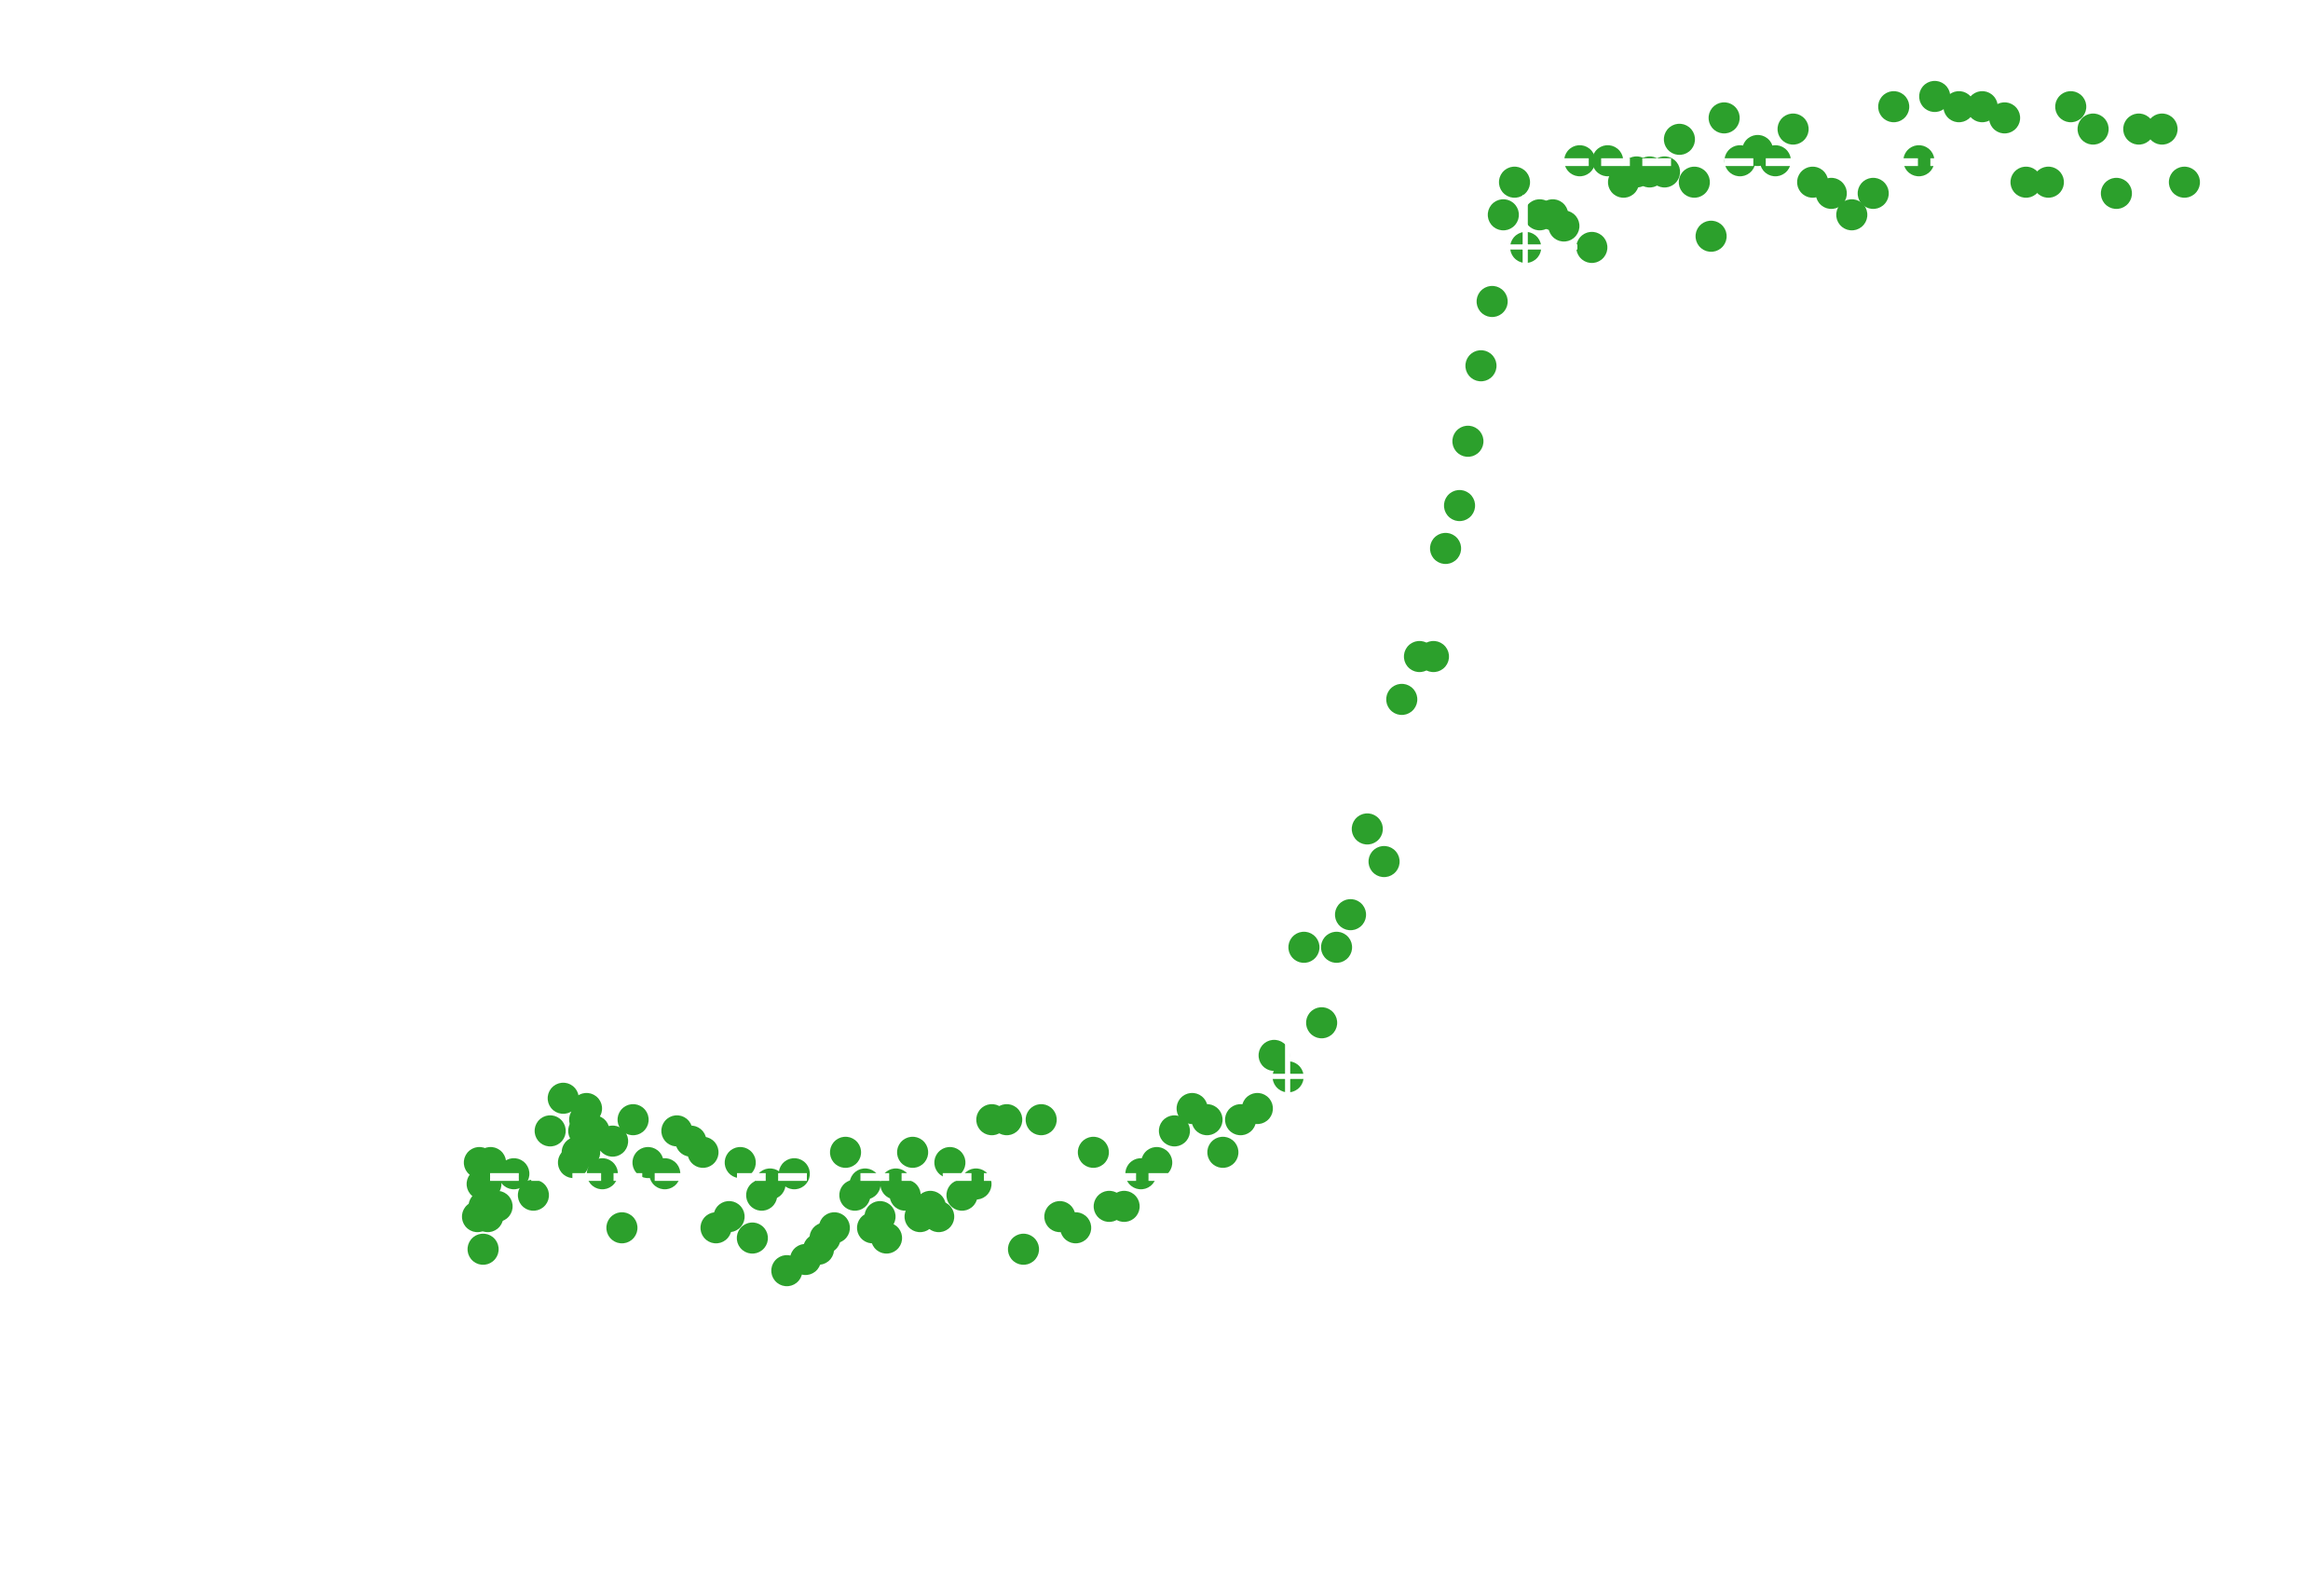
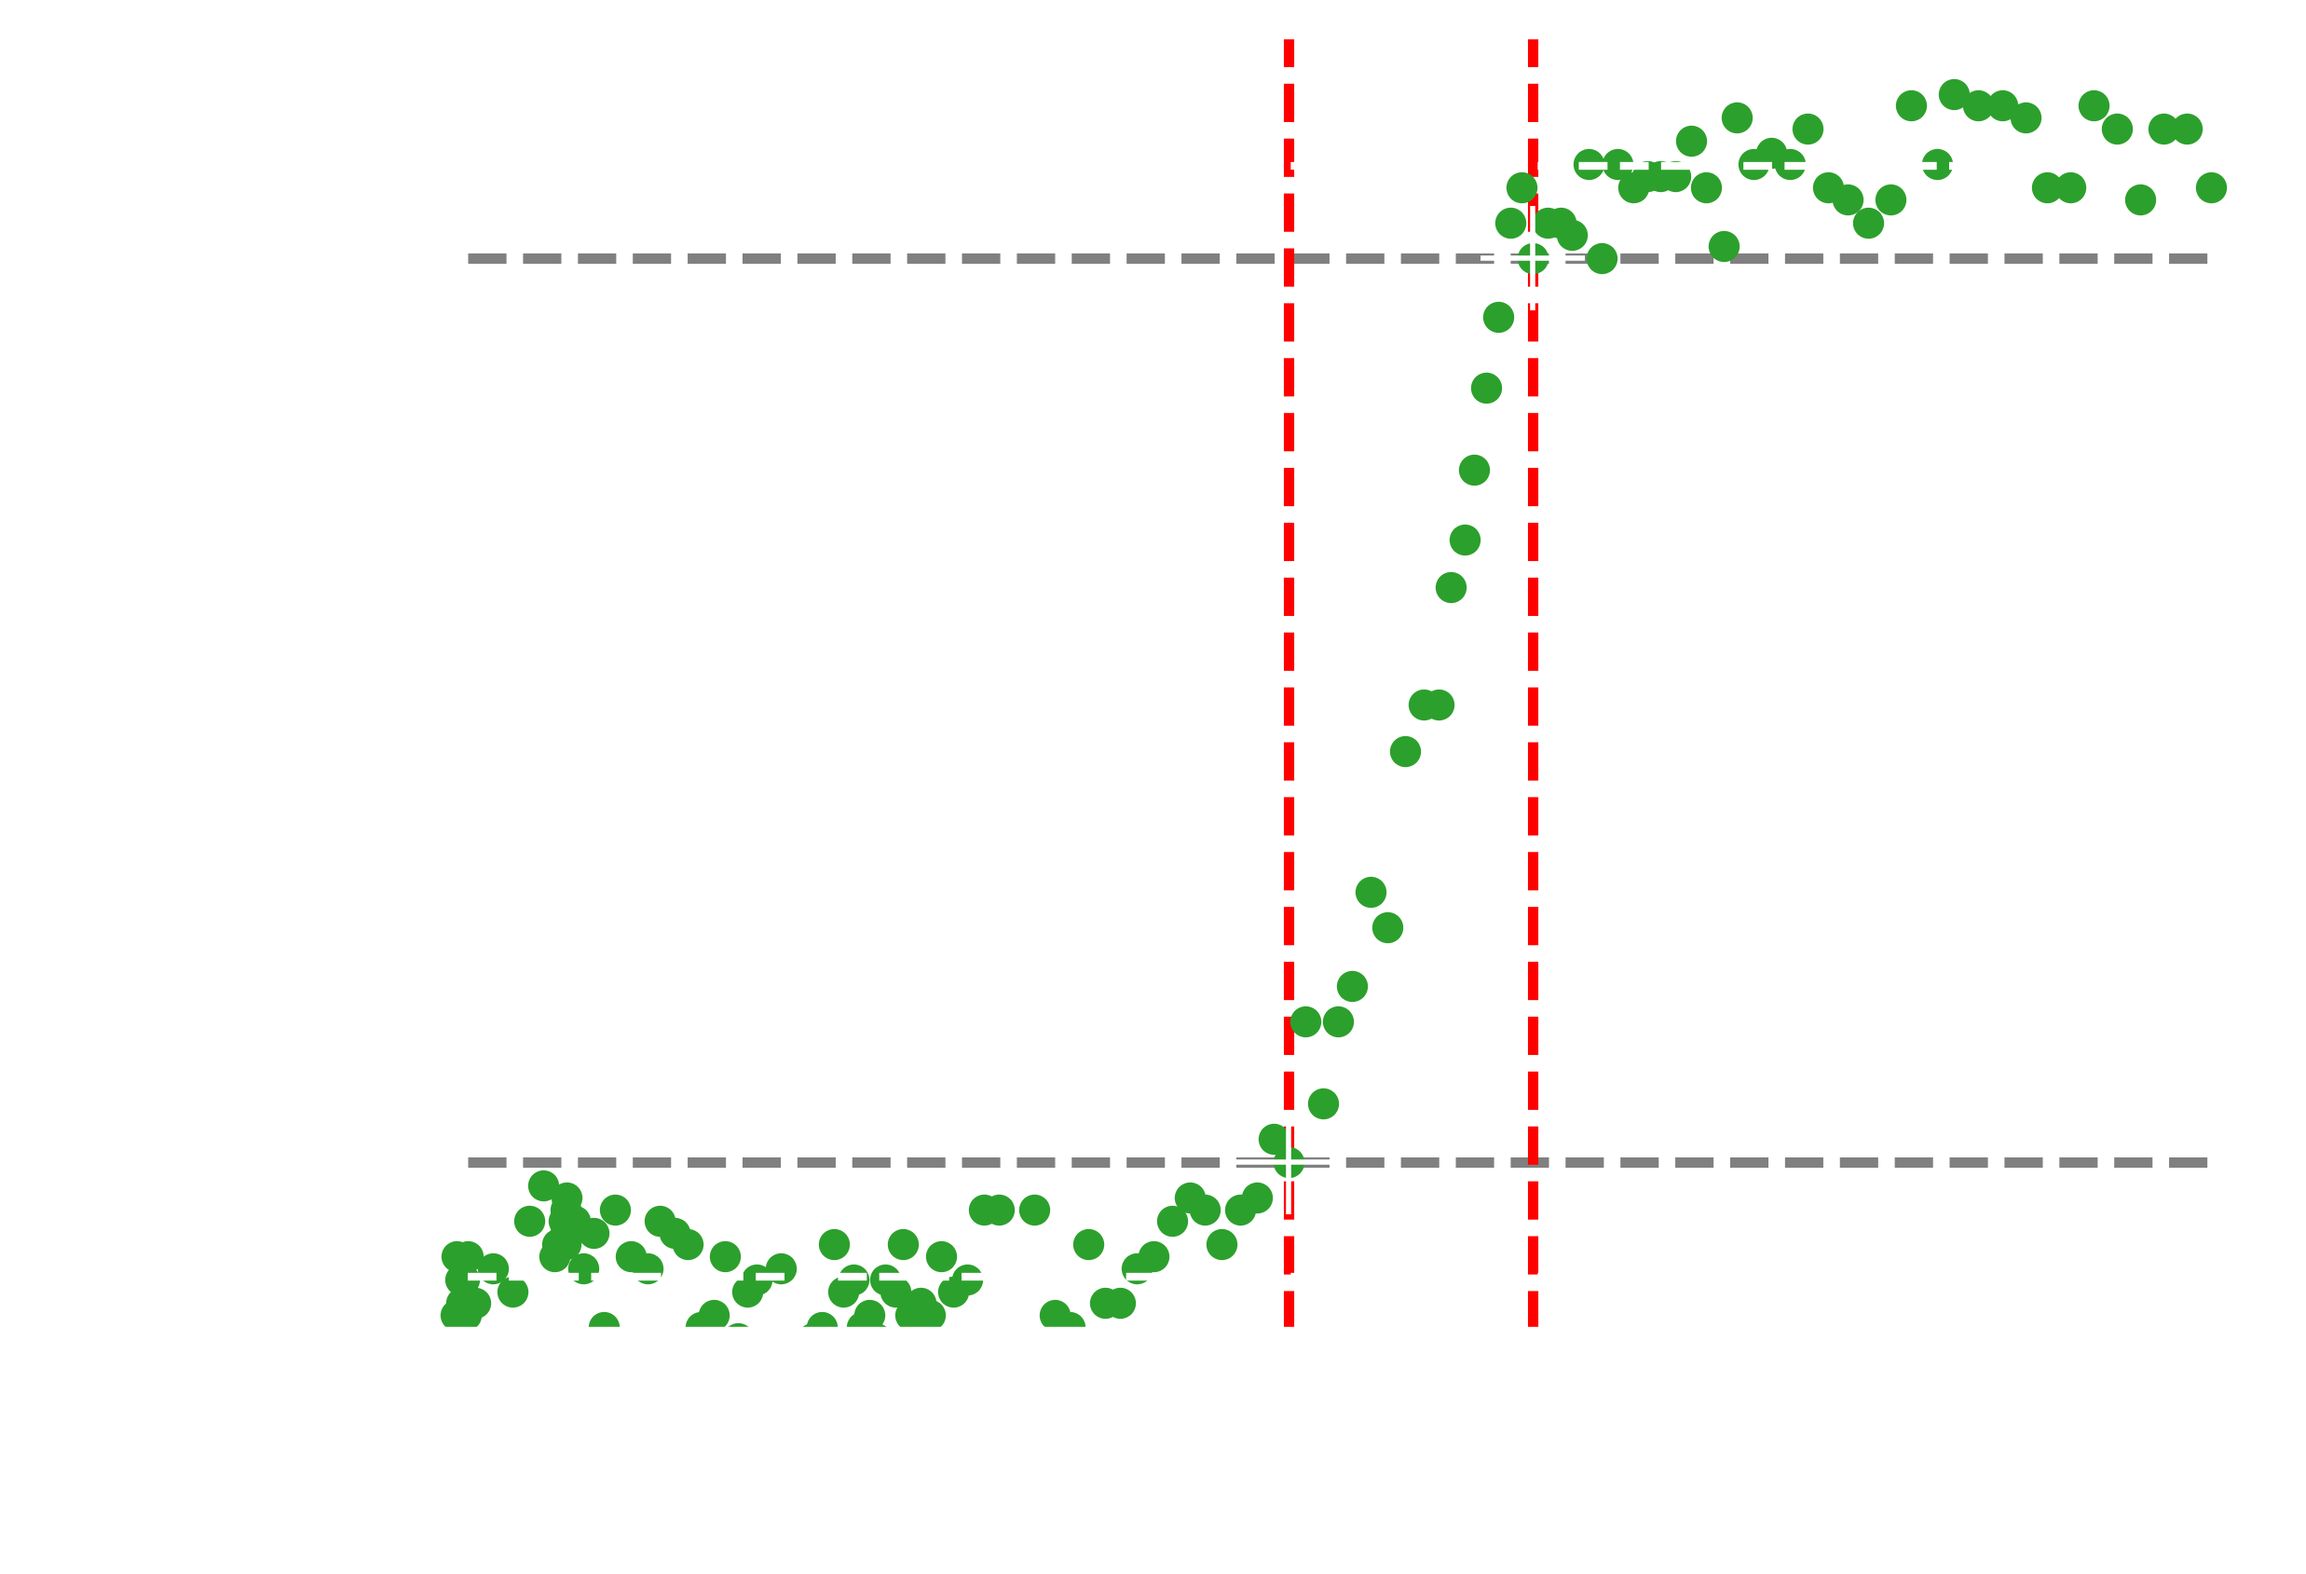
x

Changed region(s): [[0.1867, 0.0308, 0.9644, 0.4926], [0.1867, 0.5234, 0.6222, 0.862], [0.6533, 0.6465, 0.6844, 0.7697]]

diff --git a/script5.py b/script5.py
@@ -14,6 +14,8 @@ class run:
 		self.dpi = 400
 		self.figsize = (6.5, 4.5)
 		self.markersize = 10
+		self.linewidth_fit = 2
+
 
 
 	def main(self):
@@ -166,11 +168,11 @@ class run:
 		plot_range = [670, 770]
 		fit_range = [None, None]
 		
-		fit_range_os_l = [-50, None]
+		fit_range_os_l = [-40, None]
 		fit_plot_range_os_l = [None, None]
 		#fit_plot_range_os_l = fit_range_os_l
 		
-		fit_range_os_r = [None, -65]
+		fit_range_os_r = [None, -70]
 		fit_plot_range_os_r = [None, None]
 		#fit_plot_range_os_r = fit_range_os_r
 			
@@ -189,7 +191,7 @@ class run:
 		R_p_10p = (popt_os_r[0] - popt_os_l[0]) * 0.1 + popt_os_l[0]
 		search_points = R_data[fit_range_os_l[1]:fit_range_os_l[0]]
 		R_10p = search_points[np.abs(search_points-R_p_10p).argmin()]
-		Tc_10p = min(T_data[np.where(R_data==R_10p)])
+		Tc_10p = max(T_data[np.where(R_data==R_10p)])
 		print("Tc @ 10% = ",Tc_10p)
 			
 		R_p_90p = (popt_os_r[0] - popt_os_l[0]) * 0.9 + popt_os_l[0]
@@ -206,14 +208,20 @@ class run:
 		Tc_90p_B_0 = Tc_90p
 		R_10p_B_0 = R_10p - R0_MB
 		R_90p_B_0 = R_90p - R0_MB
-			
+
 		fig = plt.figure(figsize=self.figsize, dpi=80).add_subplot(1, 1, 1)
 		plt.plot(T_data_B_0, R_data_B_0, '.', color = "deepskyblue", markersize=self.markersize)
 		T_data = np.linspace(T_data[0],T_data[-1],1000)
-		plt.plot(T_data[fit_plot_range_os_l[0]:fit_plot_range_os_l[1]], offset(T_data[fit_plot_range_os_l[0]:fit_plot_range_os_l[1]], *popt_os_l), 'w--', markersize=self.markersize)
-		plt.plot(T_data[fit_plot_range_os_r[0]:fit_plot_range_os_r[1]], offset(T_data[fit_plot_range_os_r[0]:fit_plot_range_os_r[1]], *popt_os_r), 'w--', markersize=self.markersize)
-		plt.plot(Tc_10p, R_10p, 'w+', markersize=20)
-		plt.plot(Tc_90p, R_90p, 'w+', markersize=20)
+		plt.plot(T_data[fit_plot_range_os_l[0]:fit_plot_range_os_l[1]], offset(T_data[fit_plot_range_os_l[0]:fit_plot_range_os_l[1]], *popt_os_l) - R0_MB, 'w--', markersize=self.markersize)
+		plt.plot(T_data[fit_plot_range_os_r[0]:fit_plot_range_os_r[1]], offset(T_data[fit_plot_range_os_r[0]:fit_plot_range_os_r[1]], *popt_os_r) - R0_MB, 'w--', markersize=self.markersize)
+		plt.ylim(0, 0.011)
+		plt.xlim(8, 10.6)
+		plt.hlines(R_10p_B_0, min(T_data), max(T_data), color="grey", linestyle="--", linewidth=self.linewidth_fit)
+		plt.hlines(R_90p_B_0, min(T_data), max(T_data), color="grey", linestyle="--", linewidth=self.linewidth_fit)
+		plt.vlines(Tc_10p, fig.axes.get_ylim()[0], fig.axes.get_ylim()[1], color="r", linestyle="--", linewidth=self.linewidth_fit)
+		plt.vlines(Tc_90p, fig.axes.get_ylim()[0], fig.axes.get_ylim()[1], color="r", linestyle="--", linewidth=self.linewidth_fit)
+		plt.plot(Tc_10p, R_10p_B_0, 'w+', markersize=20)
+		plt.plot(Tc_90p, R_90p_B_0, 'w+', markersize=20)
 		plt.xlabel("Temperatur T / K")
 		plt.ylabel(r"Nb Widerstand R / $\Omega$")
 		#plt.title("Tc Plot für I = 0A")
@@ -229,7 +237,7 @@ class run:
 		plot_range = [970, 1100]
 		fit_range = [None, None]
 		
-		fit_range_os_l = [None, 75]
+		fit_range_os_l = [None, 70]
 		fit_plot_range_os_l = [None, None]
 		#fit_plot_range_os_l = fit_range_os_l
 		
@@ -252,7 +260,7 @@ class run:
 		R_p_10p = (popt_os_r[0] - popt_os_l[0]) * 0.1 + popt_os_l[0]
 		search_points = R_data[fit_range_os_l[1]:fit_range_os_l[0]]
 		R_10p = search_points[np.abs(search_points-R_p_10p).argmin()]
-		Tc_10p = min(T_data[np.where(R_data==R_10p)])
+		Tc_10p = max(T_data[np.where(R_data==R_10p)])
 		print("Tc @ 10% = ",Tc_10p)
 			
 		R_p_90p = (popt_os_r[0] - popt_os_l[0]) * 0.9 + popt_os_l[0]
@@ -262,21 +270,28 @@ class run:
 		print("Tc @ 90% = ",Tc_90p)
 		
 		T_data_B_1 = T_data
-		R_data_B_1 = R_data
+		R_data_B_1 = R_data - R0_MB
 		Tc_10p_B_1 = Tc_10p
 		Tc_90p_B_1 = Tc_90p
-		R_10p_B_1 = R_10p
-		R_90p_B_1 = R_90p
+		R_10p_B_1 = R_10p - R0_MB
+		R_90p_B_1 = R_90p - R0_MB
 		
 		fig = plt.figure(figsize=self.figsize, dpi=80).add_subplot(1, 1, 1)
-		plt.plot(T_data, R_data, '.', color="tab:green", markersize=self.markersize)
+		plt.plot(T_data, R_data_B_1, '.', color="tab:green", markersize=self.markersize)
 		T_data = np.linspace(T_data[0],T_data[-1],1000)
-		plt.plot(T_data[fit_plot_range_os_l[0]:fit_plot_range_os_l[1]], offset(T_data[fit_plot_range_os_l[0]:fit_plot_range_os_l[1]], *popt_os_l), 'w--', markersize=self.markersize)
-		plt.plot(T_data[fit_plot_range_os_r[0]:fit_plot_range_os_r[1]], offset(T_data[fit_plot_range_os_r[0]:fit_plot_range_os_r[1]], *popt_os_r), 'w--', markersize=self.markersize)
-		plt.plot(Tc_10p, R_10p, 'w+', markersize=20)
-		plt.plot(Tc_90p, R_90p, 'w+', markersize=20)
+		plt.plot(T_data[fit_plot_range_os_l[0]:fit_plot_range_os_l[1]], offset(T_data[fit_plot_range_os_l[0]:fit_plot_range_os_l[1]], *popt_os_l) - R0_MB, 'w--', markersize=self.markersize)
+		plt.plot(T_data[fit_plot_range_os_r[0]:fit_plot_range_os_r[1]], offset(T_data[fit_plot_range_os_r[0]:fit_plot_range_os_r[1]], *popt_os_r) - R0_MB, 'w--', markersize=self.markersize)
+		plt.ylim(0, 0.011)
+		plt.xlim(6.2, 8.6)
+		plt.hlines(R_10p_B_1, min(T_data), max(T_data), color="grey", linestyle="--", linewidth=self.linewidth_fit)
+		plt.hlines(R_90p_B_1, min(T_data), max(T_data), color="grey", linestyle="--", linewidth=self.linewidth_fit)
+		plt.vlines(Tc_10p, fig.axes.get_ylim()[0], fig.axes.get_ylim()[1], color="r", linestyle="--", linewidth=self.linewidth_fit)
+		plt.vlines(Tc_90p, fig.axes.get_ylim()[0], fig.axes.get_ylim()[1], color="r", linestyle="--", linewidth=self.linewidth_fit)
+		plt.plot(Tc_10p, R_10p_B_1, 'w+', markersize=20)
+		plt.plot(Tc_90p, R_90p_B_1, 'w+', markersize=20)
 		plt.xlabel("Temperatur T / K")
 		plt.ylabel(r"Nb Widerstand R / $\Omega$")
+		#plt.ylim(0, None)
 		#plt.title("Tc Plot für I = 0A")
 		maximize()
 		plt.savefig(self.export_folder+"Tc_plot_B1"+self.export_extension, bbox_inches='tight', dpi=self.dpi)
@@ -292,12 +307,12 @@ class run:
 		fit_range = [None, None]
 		
 		#fit_range_os_l = [-65, None]
-		fit_range_os_l = [-38, None]
+		fit_range_os_l = [-35, None]
 		fit_plot_range_os_l = [None, None]
 		#fit_plot_range_os_l = fit_range_os_l
 		
 		#fit_range_os_r = [None, -80]
-		fit_range_os_r = [None, -47]
+		fit_range_os_r = [None, -50]
 		fit_plot_range_os_r = [None, None]
 		#fit_plot_range_os_r = fit_range_os_r
 			
@@ -316,7 +331,7 @@ class run:
 		R_p_10p = (popt_os_r[0] - popt_os_l[0]) * 0.1 + popt_os_l[0]
 		search_points = R_data[fit_range_os_l[1]:fit_range_os_l[0]]
 		R_10p = search_points[np.abs(search_points-R_p_10p).argmin()]
-		Tc_10p = min(T_data[np.where(R_data==R_10p)])
+		Tc_10p = max(T_data[np.where(R_data==R_10p)])
 		print("Tc @ 10% = ",Tc_10p)
 			
 		R_p_90p = (popt_os_r[0] - popt_os_l[0]) * 0.9 + popt_os_l[0]
@@ -326,21 +341,28 @@ class run:
 		print("Tc @ 90% = ",Tc_90p)
 		
 		T_data_B_2 = T_data
-		R_data_B_2 = R_data
+		R_data_B_2 = R_data - R0_MB
 		Tc_10p_B_2 = Tc_10p
 		Tc_90p_B_2 = Tc_90p
-		R_10p_B_2 = R_10p
-		R_90p_B_2 = R_90p
+		R_10p_B_2 = R_10p - R0_MB
+		R_90p_B_2 = R_90p - R0_MB
 		
 		fig = plt.figure(figsize=self.figsize, dpi=80).add_subplot(1, 1, 1)
-		plt.plot(T_data, R_data, '.', color="tab:orange", markersize=self.markersize)
+		plt.plot(T_data, R_data_B_2, '.', color="tab:orange", markersize=self.markersize)
 		T_data = np.linspace(T_data[0],T_data[-1],1000)
-		plt.plot(T_data[fit_plot_range_os_l[0]:fit_plot_range_os_l[1]], offset(T_data[fit_plot_range_os_l[0]:fit_plot_range_os_l[1]], *popt_os_l), 'w--', markersize=self.markersize)
-		plt.plot(T_data[fit_plot_range_os_r[0]:fit_plot_range_os_r[1]], offset(T_data[fit_plot_range_os_r[0]:fit_plot_range_os_r[1]], *popt_os_r), 'w--', markersize=self.markersize)
-		plt.plot(Tc_10p, R_10p, 'w+', markersize=20)
-		plt.plot(Tc_90p, R_90p, 'w+', markersize=20)
+		plt.plot(T_data[fit_plot_range_os_l[0]:fit_plot_range_os_l[1]], offset(T_data[fit_plot_range_os_l[0]:fit_plot_range_os_l[1]], *popt_os_l) - R0_MB, 'w--', markersize=self.markersize)
+		plt.plot(T_data[fit_plot_range_os_r[0]:fit_plot_range_os_r[1]], offset(T_data[fit_plot_range_os_r[0]:fit_plot_range_os_r[1]], *popt_os_r) - R0_MB, 'w--', markersize=self.markersize)
+		plt.ylim(0, 0.011)
+		plt.xlim(7.1, 9.25)
+		plt.hlines(R_10p_B_2, min(T_data), max(T_data), color="grey", linestyle="--", linewidth=self.linewidth_fit)
+		plt.hlines(R_90p_B_2, min(T_data), max(T_data), color="grey", linestyle="--", linewidth=self.linewidth_fit)
+		plt.vlines(Tc_10p, fig.axes.get_ylim()[0], fig.axes.get_ylim()[1], color="r", linestyle="--", linewidth=self.linewidth_fit)
+		plt.vlines(Tc_90p, fig.axes.get_ylim()[0], fig.axes.get_ylim()[1], color="r", linestyle="--", linewidth=self.linewidth_fit)
+		plt.plot(Tc_10p, R_10p_B_2, 'w+', markersize=20)
+		plt.plot(Tc_90p, R_90p_B_2, 'w+', markersize=20)
 		plt.xlabel("Temperatur T / K")
 		plt.ylabel(r"Nb Widerstand R / $\Omega$")
+		#plt.ylim(0, None)
 		#plt.title("Tc Plot für I = 0A")
 		maximize()
 		plt.savefig(self.export_folder+"Tc_plot_B2"+self.export_extension, bbox_inches='tight', dpi=self.dpi)
@@ -358,6 +380,7 @@ class run:
 		plt.xlabel("Temperatur T / K")
 		plt.ylabel(r"Nb Widerstand R / $\Omega$")
 		plt.xlim(5, None)
+		plt.ylim(0, None)
 		#plt.title("Tc Plot für I = 0A")
 		#plt.legend(loc='lower right')
 		plt.legend(loc='upper left', markerscale=2)
